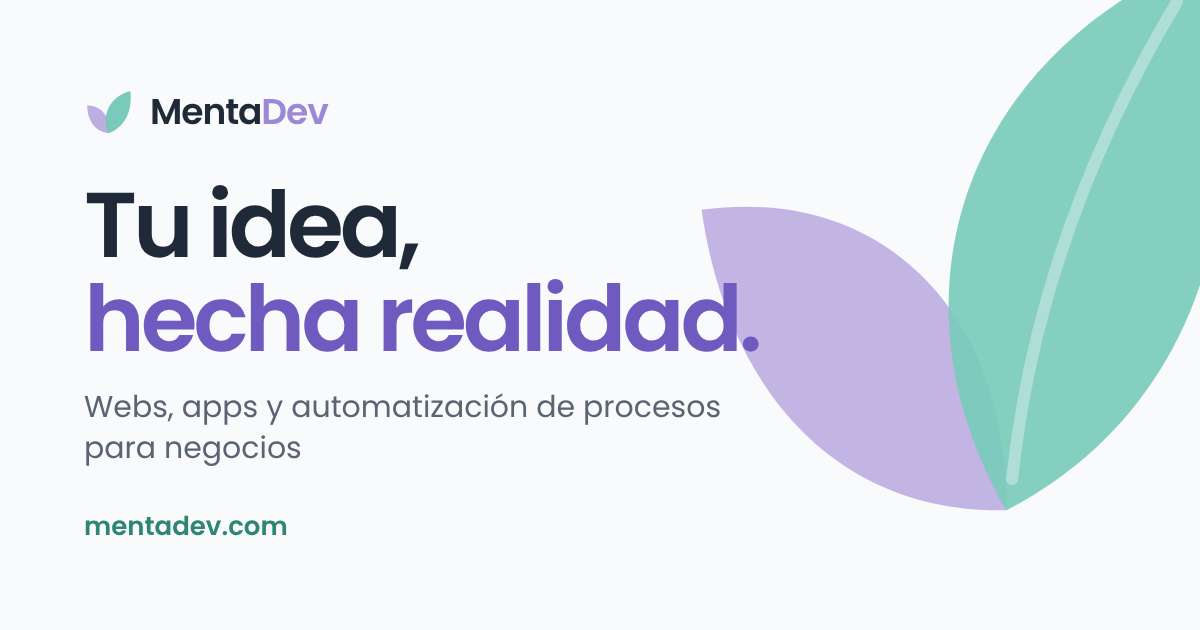
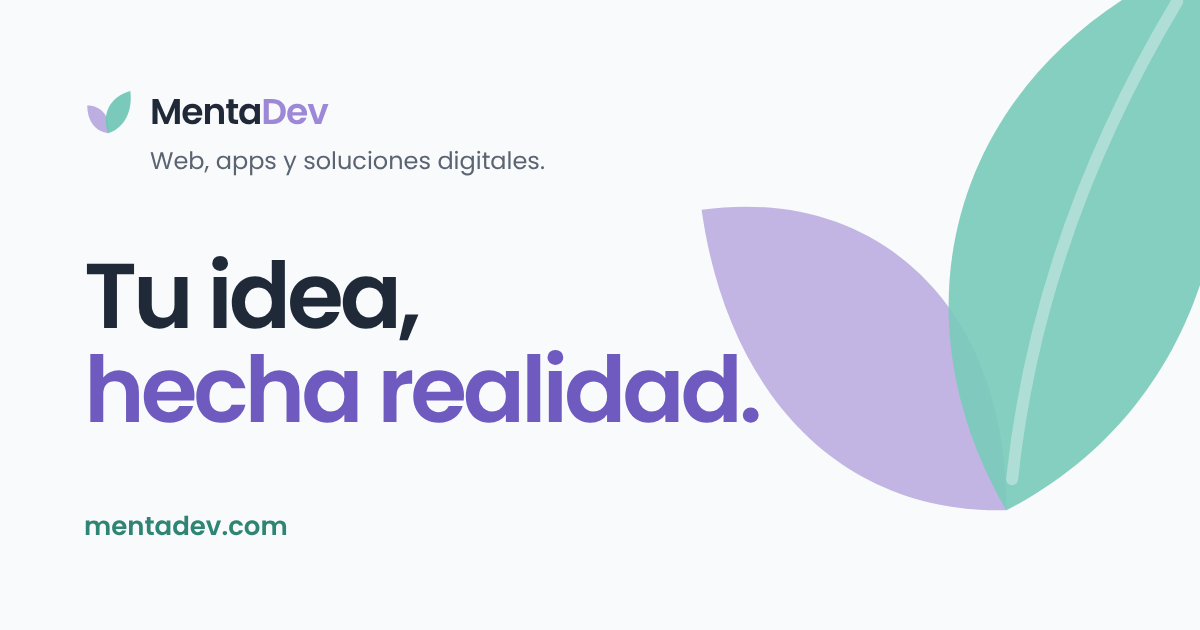
Descriptor de marca: Web, apps y soluciones digitales.
- Descriptor bajo el logo en el pie de todas las páginas.
- Title, meta description, Open Graph e imagen para compartir con la
  jerarquía marca / descriptor / eslogan.
- JSON-LD: description con el descriptor y slogan con el eslogan.
- El pie deja hueco al botón flotante de WhatsApp.
- CLAUDE.md documenta la jerarquía de mensajes.

Claude-Session: https://claude.ai/code/session_01XfiyUHVsM9Xp2A2AqzfKDm

Changed region(s): [[0.0617, 0.3016, 0.6475, 0.754], [0.1233, 0.2413, 0.4625, 0.2714]]

diff --git a/index.html b/index.html
@@ -3,20 +3,20 @@
 <head>
 <meta charset="utf-8">
 <meta name="viewport" content="width=device-width, initial-scale=1">
-<title>MentaDev · Webs, apps y automatización de procesos para negocios</title>
-<meta name="description" content="Webs profesionales desde 349 €, apps a medida y automatización de procesos para pequeños negocios. Precio cerrado y trato directo con quien desarrolla tu proyecto.">
+<title>MentaDev · Web, apps y soluciones digitales</title>
+<meta name="description" content="MentaDev: web, apps y soluciones digitales. Webs profesionales desde 349 €, apps a medida y automatización de procesos para pequeños negocios. Precio cerrado y trato directo con quien desarrolla tu proyecto.">
 <link rel="canonical" href="https://mentadev.com/">
 <meta name="theme-color" content="#1F2937">
 <meta property="og:type" content="website">
 <meta property="og:url" content="https://mentadev.com/">
-<meta property="og:title" content="MentaDev · Tu idea, hecha realidad">
-<meta property="og:description" content="Webs, apps y automatización de procesos para negocios. Cuéntame cómo trabajas y busco qué puedes dejar de hacer a mano.">
+<meta property="og:title" content="MentaDev · Tu idea, hecha realidad.">
+<meta property="og:description" content="Web, apps y soluciones digitales. Webs profesionales desde 349 €, apps a medida y automatización de procesos para negocios.">
 <meta property="og:locale" content="es_ES">
 <meta property="og:site_name" content="MentaDev">
 <meta property="og:image" content="https://mentadev.com/assets/og-image.png">
 <meta property="og:image:width" content="1200">
 <meta property="og:image:height" content="630">
-<meta property="og:image:alt" content="MentaDev · Tu idea, hecha realidad. Webs, apps y automatización de procesos para negocios">
+<meta property="og:image:alt" content="MentaDev, web, apps y soluciones digitales. Tu idea, hecha realidad.">
 <meta name="twitter:card" content="summary_large_image">
 <link rel="icon" href="assets/favicon.svg" type="image/svg+xml">
 <link rel="icon" href="assets/favicon-32.png" type="image/png" sizes="32x32">
@@ -29,7 +29,9 @@
    "@type": "ProfessionalService",
    "@id": "https://mentadev.com/#negocio",
    "name": "MentaDev",
-   "description": "Webs profesionales, apps a medida y automatización de procesos para pequeños negocios.",
+   "description": "Web, apps y soluciones digitales.",
+   "slogan": "Tu idea, hecha realidad.",
+   "disambiguatingDescription": "Webs profesionales, apps a medida y automatización de procesos para pequeños negocios.",
    "url": "https://mentadev.com/",
    "logo": "https://mentadev.com/assets/apple-touch-icon.png",
    "image": "https://mentadev.com/assets/og-image.png",
@@ -102,7 +104,8 @@
    "inLanguage": "es",
    "publisher": {
     "@id": "https://mentadev.com/#negocio"
-   }
+   },
+   "description": "Web, apps y soluciones digitales."
   },
   {
    "@type": "FAQPage",
@@ -589,10 +592,13 @@
 <!-- FOOTER -->
 <footer style="border-top: 1px solid #E6EAEF; padding: 40px 0">
 <div class="md-wrap" style="display: flex; flex-wrap: wrap; justify-content: space-between; align-items: center; gap: 24px">
+<div class="md-foot-brand">
 <a href="#inicio" style="display: flex; align-items: center; gap: 10px; text-decoration: none; color: #1F2937">
 <svg width="30" height="30" viewBox="0 0 64 64" aria-hidden="true"><path d="M30 58C13 56 4 42 4 24c17 0 29 13 26 34z" fill="#BDAEE1"></path><path d="M30 58C21 36 31 13 57 6c3 25-7 45-27 52z" fill="#6EC6B4" opacity=".92"></path></svg>
 <span style="font-size: 19px; font-weight: 600; letter-spacing: -.03em">Menta<span style="color: #9D88D8">Dev</span></span>
 </a>
+<p class="md-foot-descriptor">Web, apps y soluciones digitales.</p>
+</div>
 <nav aria-label="Pie" style="display: flex; flex-wrap: wrap; gap: 20px 28px">
 <a class="md-nav-link" href="#servicios">Servicios</a>
 <a class="md-nav-link" href="#automatizacion">Automatización</a>
@@ -601,7 +607,7 @@
 <a class="md-nav-link" href="#contacto">Contacto</a>
 </nav>
 <div class="md-foot-meta">
-<p style="font-size: 14px; color: #5B6472">© <span id="year">2026</span> MentaDev · Webs, apps y automatización</p>
+<p style="font-size: 14px; color: #5B6472">© <span id="year">2026</span> MentaDev</p>
 <nav aria-label="Legal" class="md-foot-legal"><a href="aviso-legal.html">Aviso legal</a><a href="privacidad.html">Privacidad</a><a href="cookies.html">Cookies</a></nav>
 </div>
 </div>

diff --git a/aviso-legal.html b/aviso-legal.html
@@ -54,12 +54,15 @@
 </main>
 <footer style="border-top: 1px solid #E6EAEF; padding: 40px 0">
 <div class="md-wrap" style="display: flex; flex-wrap: wrap; justify-content: space-between; align-items: center; gap: 24px">
+<div class="md-foot-brand">
 <a href="./" style="display: flex; align-items: center; gap: 10px; text-decoration: none; color: #1F2937">
 <svg width="30" height="30" viewBox="0 0 64 64" aria-hidden="true"><path d="M30 58C13 56 4 42 4 24c17 0 29 13 26 34z" fill="#BDAEE1"></path><path d="M30 58C21 36 31 13 57 6c3 25-7 45-27 52z" fill="#6EC6B4" opacity=".92"></path></svg>
 <span style="font-size: 19px; font-weight: 600; letter-spacing: -.03em">Menta<span style="color: #9D88D8">Dev</span></span>
 </a>
+<p class="md-foot-descriptor">Web, apps y soluciones digitales.</p>
+</div>
 <div class="md-foot-meta">
-<p style="font-size: 14px; color: #5B6472">© 2026 MentaDev · Webs, apps y automatización</p>
+<p style="font-size: 14px; color: #5B6472">© 2026 MentaDev</p>
 <nav aria-label="Legal" class="md-foot-legal"><a href="aviso-legal.html">Aviso legal</a><a href="privacidad.html">Privacidad</a><a href="cookies.html">Cookies</a></nav>
 </div>
 </div>

diff --git a/cookies.html b/cookies.html
@@ -43,12 +43,15 @@
 </main>
 <footer style="border-top: 1px solid #E6EAEF; padding: 40px 0">
 <div class="md-wrap" style="display: flex; flex-wrap: wrap; justify-content: space-between; align-items: center; gap: 24px">
+<div class="md-foot-brand">
 <a href="./" style="display: flex; align-items: center; gap: 10px; text-decoration: none; color: #1F2937">
 <svg width="30" height="30" viewBox="0 0 64 64" aria-hidden="true"><path d="M30 58C13 56 4 42 4 24c17 0 29 13 26 34z" fill="#BDAEE1"></path><path d="M30 58C21 36 31 13 57 6c3 25-7 45-27 52z" fill="#6EC6B4" opacity=".92"></path></svg>
 <span style="font-size: 19px; font-weight: 600; letter-spacing: -.03em">Menta<span style="color: #9D88D8">Dev</span></span>
 </a>
+<p class="md-foot-descriptor">Web, apps y soluciones digitales.</p>
+</div>
 <div class="md-foot-meta">
-<p style="font-size: 14px; color: #5B6472">© 2026 MentaDev · Webs, apps y automatización</p>
+<p style="font-size: 14px; color: #5B6472">© 2026 MentaDev</p>
 <nav aria-label="Legal" class="md-foot-legal"><a href="aviso-legal.html">Aviso legal</a><a href="privacidad.html">Privacidad</a><a href="cookies.html">Cookies</a></nav>
 </div>
 </div>

diff --git a/privacidad.html b/privacidad.html
@@ -66,12 +66,15 @@
 </main>
 <footer style="border-top: 1px solid #E6EAEF; padding: 40px 0">
 <div class="md-wrap" style="display: flex; flex-wrap: wrap; justify-content: space-between; align-items: center; gap: 24px">
+<div class="md-foot-brand">
 <a href="./" style="display: flex; align-items: center; gap: 10px; text-decoration: none; color: #1F2937">
 <svg width="30" height="30" viewBox="0 0 64 64" aria-hidden="true"><path d="M30 58C13 56 4 42 4 24c17 0 29 13 26 34z" fill="#BDAEE1"></path><path d="M30 58C21 36 31 13 57 6c3 25-7 45-27 52z" fill="#6EC6B4" opacity=".92"></path></svg>
 <span style="font-size: 19px; font-weight: 600; letter-spacing: -.03em">Menta<span style="color: #9D88D8">Dev</span></span>
 </a>
+<p class="md-foot-descriptor">Web, apps y soluciones digitales.</p>
+</div>
 <div class="md-foot-meta">
-<p style="font-size: 14px; color: #5B6472">© 2026 MentaDev · Webs, apps y automatización</p>
+<p style="font-size: 14px; color: #5B6472">© 2026 MentaDev</p>
 <nav aria-label="Legal" class="md-foot-legal"><a href="aviso-legal.html">Aviso legal</a><a href="privacidad.html">Privacidad</a><a href="cookies.html">Cookies</a></nav>
 </div>
 </div>

diff --git a/404.html b/404.html
@@ -33,12 +33,15 @@
 </main>
 <footer style="border-top: 1px solid #E6EAEF; padding: 40px 0">
 <div class="md-wrap" style="display: flex; flex-wrap: wrap; justify-content: space-between; align-items: center; gap: 24px">
+<div class="md-foot-brand">
 <a href="/" style="display: flex; align-items: center; gap: 10px; text-decoration: none; color: #1F2937">
 <svg width="30" height="30" viewBox="0 0 64 64" aria-hidden="true"><path d="M30 58C13 56 4 42 4 24c17 0 29 13 26 34z" fill="#BDAEE1"></path><path d="M30 58C21 36 31 13 57 6c3 25-7 45-27 52z" fill="#6EC6B4" opacity=".92"></path></svg>
 <span style="font-size: 19px; font-weight: 600; letter-spacing: -.03em">Menta<span style="color: #9D88D8">Dev</span></span>
 </a>
+<p class="md-foot-descriptor">Web, apps y soluciones digitales.</p>
+</div>
 <div class="md-foot-meta">
-<p style="font-size: 14px; color: #5B6472">© 2026 MentaDev · Webs, apps y automatización</p>
+<p style="font-size: 14px; color: #5B6472">© 2026 MentaDev</p>
 <nav aria-label="Legal" class="md-foot-legal"><a href="/aviso-legal">Aviso legal</a><a href="/privacidad">Privacidad</a><a href="/cookies">Cookies</a></nav>
 </div>
 </div>

diff --git a/styles.css b/styles.css
@@ -133,7 +133,9 @@ html{scroll-behavior:smooth;scroll-padding-top:84px}
 .md-wa-float{right:16px;bottom:16px;width:52px;height:52px}
 }
 
-/* Pie: enlaces legales */
+/* Pie: marca con descriptor y enlaces legales */
+.md-foot-brand{display:flex;flex-direction:column;gap:6px}
+.md-foot-descriptor{font-size:13px;color:var(--ink2);padding-left:40px}
 .md-foot-meta{display:flex;flex-direction:column;gap:6px;align-items:flex-end}
 .md-foot-legal{display:flex;flex-wrap:wrap;gap:4px 16px;font-size:13px}
 .md-foot-legal a{color:var(--ink2);text-decoration:none}
@@ -152,3 +154,6 @@ html{scroll-behavior:smooth;scroll-padding-top:84px}
 .md-legal-body dd{margin:0}
 .md-legal-updated{font-size:14px;color:var(--ink2)}
 @media (max-width:560px){.md-legal-body dl{grid-template-columns:minmax(0,1fr);gap:2px 0}.md-legal-body dd{margin-bottom:10px}}
+
+/* Deja hueco al final para que el botón flotante de WhatsApp no tape el pie */
+footer{padding-bottom:96px !important}

diff --git a/CLAUDE.md b/CLAUDE.md
@@ -7,6 +7,13 @@ Landing para ofrecer servicios de diseño web y soluciones digitales.
 - Despliegue: **Cloudflare Workers (static assets)**, Worker `mentadev` conectado a este repo; cada push a `main` se publica en **mentadev.com**. Config en `wrangler.jsonc` (sirve la raíz tal cual, sin build). Lo que no debe publicarse va en `.assetsignore`.
 - Diseño de referencia inicial: lienzo "MentaDev Landing" en claude.ai (https://claude.ai/artifact/JfuyKhtKqb6CTAqTBsaoxm). La versión vigente es la del repo.
 
+## Jerarquía de mensajes
+Cada mensaje tiene una función y no deben competir visualmente:
+1. **Marca:** MentaDev
+2. **Descriptor de marca** (qué es, uso secundario y estable): "Web, apps y soluciones digitales." Va bajo el logo en el pie, en `<title>`, meta description, Open Graph, imagen para compartir y JSON-LD (`description`). En la cabecera no se muestra para mantener limpio el logo.
+3. **Eslogan comercial** (mensaje principal): "Tu idea, hecha realidad." Es el H1 del hero, `og:title` y `slogan` del JSON-LD. No sustituirlo.
+4. **Mensaje de automatización:** "Cuéntame cómo trabajas. Yo busco qué podemos automatizar." Solo en la sección de automatización.
+
 ## Posicionamiento
 Estudio de desarrollo para pequeños negocios: **webs profesionales, apps/herramientas a medida y automatización de procesos**, con trato directo (Creu desarrolla cada proyecto). No competir solo por precio.
 - **Producto de entrada:** web profesional desde **349 € + IVA** (alcance cerrado: hasta 6 secciones, contenidos editables, SEO y analítica, textos legales básicos, 1 mes de soporte). Ese precio solo aplica a la web profesional; tiendas, apps y automatizaciones van con presupuesto personalizado.
